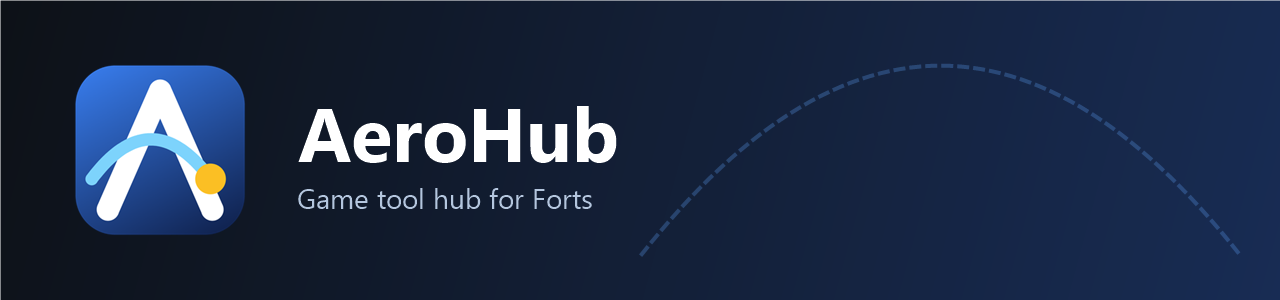
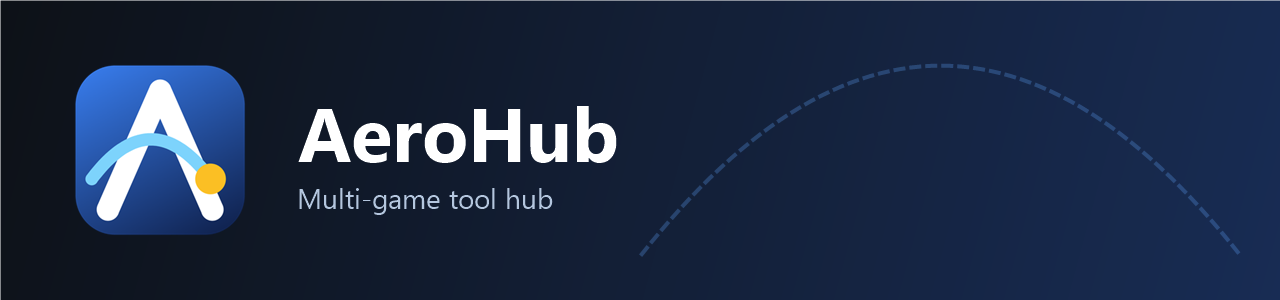
Present AeroHub as a multi-game hub

Changed region(s): [[0.2188, 0.63, 0.4688, 0.72]]

diff --git a/README.md b/README.md
@@ -5,18 +5,33 @@
 <p align="center">
   <img src="https://img.shields.io/badge/platform-Windows%20x64-2563eb" alt="Windows x64">
   <img src="https://img.shields.io/badge/C%2B%2B-20-2563eb" alt="C++20">
-  <img src="https://img.shields.io/badge/renderer-OpenGL-2563eb" alt="OpenGL">
-  <img src="https://img.shields.io/badge/Forts-build%2026181732-34d399" alt="Forts build 26181732">
+  <img src="https://img.shields.io/badge/games-1%20ready-34d399" alt="1 game ready">
 </p>
 
-**AeroHub** — приложение для **Forts**: хаб проверяет сборку игры и загружает в неё модуль, а функции включаются прямо в игре, в меню по клавише `Insert`. Для сетевых матчей есть мод AeroHub в Steam Workshop.
+**AeroHub** — единое приложение с читами для разных игр. Хаб показывает список игр, проверяет сборку запущенной игры и загружает её модуль, а функции включаются в меню прямо в игре.
+
+## Игры
+
+| Игра | Статус |
+|---|---|
+| Forts | ✅ Готово |
+| Counter-Strike 2 | 🗓 В планах |
+| Dota 2 | 🗓 В планах |
+| Rust | 🗓 В планах |
+| Minecraft | 🗓 В планах |
+
+Список будет расти.
 
 <p align="center">
   <img src="docs/hub.png" alt="Окно AeroHub" width="82%">
 </p>
 <p align="center"><sub>Окно хаба в режиме <code>--demo</code>, данные тестовые.</sub></p>
 
-## Функции
+## Forts
+
+Меню открывается клавишей `Insert`. Для сетевых матчей есть мод AeroHub в Steam Workshop.
+
+### Функции
 
 | Вкладка | Функция | Одиночная игра | Онлайн |
 |---|---|---|---|
@@ -40,7 +55,7 @@
 </p>
 <p align="center"><sub>Меню и окно наблюдения отрисованы кодом проекта вне игры, данные тестовые.</sub></p>
 
-## Быстрый старт
+### Быстрый старт
 
 1. Скачай архив из раздела [Releases](../../releases/latest) и распакуй его в любую папку.
 2. Переключи Forts на OpenGL: в файле `users/<steamid>/settings_hardware.lua` укажи `EnableVulkan = false`. Под Vulkan модуль не работает.
@@ -65,7 +80,7 @@
 
 Без приложения мод ничего не делает. Версия мода должна совпадать у всех игроков, иначе игра разойдётся и начнётся десинхрон.
 
-## Совместимость
+### Совместимость
 
 | Параметр | Значение |
 |---|---|
@@ -76,7 +91,7 @@
 
 Хаб сверяет сборку перед загрузкой модуля и откажется работать с другой версией игры. После обновления Forts адреса нужно измерить заново. Все значения, зависящие от сборки, лежат в [`modules/forts/FortsConfig.hpp`](modules/forts/FortsConfig.hpp).
 
-## Ограничения
+### Ограничения
 
 - Модуль не видит, загружен ли мод в лобби, поэтому онлайн переключатель может быть включён, хотя мода нет.
 - Онлайн ремонт идёт по обычным правилам игры: он стоит ресурсы и занимает обычное время.
@@ -100,11 +115,17 @@ cmake --build build --config Release
 |---|---|
 | `core/` | Общая библиотека: чтение PE, поиск процесса, загрузка DLL, хуки IAT, связь с хабом, элементы интерфейса |
 | `hub/` | Приложение `AeroHub.exe` |
-| `modules/forts/` | `FortsModule.dll`: функции, меню и оверлей для Forts |
-| `mods/aerohub/` | Мод для сетевых матчей |
+| `modules/<game>/` | Модуль игры, сейчас `modules/forts/`: функции, меню и оверлей |
+| `mods/aerohub/` | Мод Forts для сетевых матчей |
 | `profiles/` | Профили игр с ожидаемой сборкой и настройками |
 | `docs/` | Изображения для этого файла |
 
-Подробная история реверса и замеров находится в [`HANDOFF.md`](HANDOFF.md).
+Подробная история реверса и замеров Forts находится в [`HANDOFF.md`](HANDOFF.md).
 
-Новая игра добавляется файлом `profiles/<game>.ini`, модулем `modules/<game>/` и целью в `CMakeLists.txt`.
+## Как добавить игру
+
+1. Создай профиль `profiles/<game>.ini`: процесс, путь к модулю и ожидаемая сборка.
+2. Создай модуль в `modules/<game>/`.
+3. Добавь цель модуля в `CMakeLists.txt`.
+
+Хаб сам покажет игру в списке.
